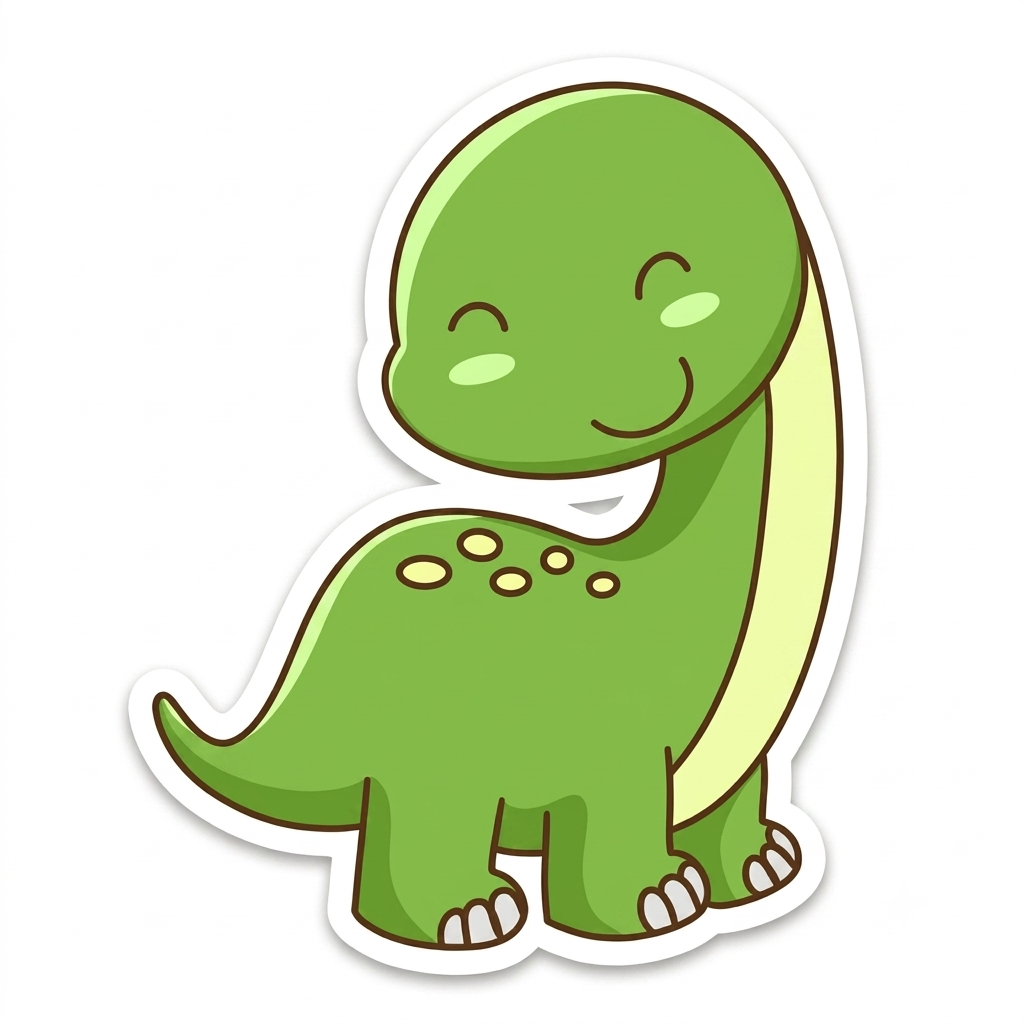
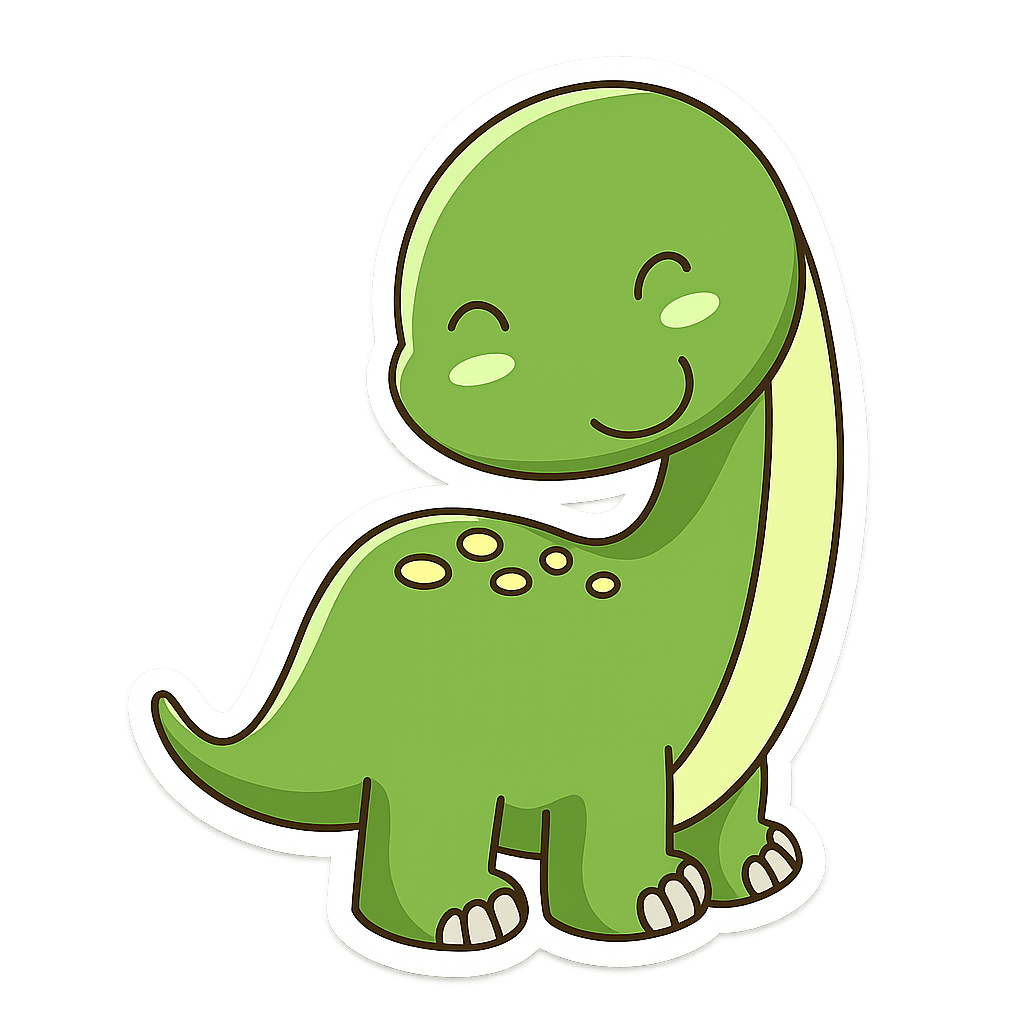
atividades crud

diff --git a/09 Crud/script.js b/09 Crud/script.js
@@ -6,19 +6,19 @@
 
 //D >> Delete >> Apagar
 
-
 let dinos = []
 
-function limpar_input(){
+function limpar_input() {
     document.getElementById("input_nome").value = ""
     document.getElementById("input_altura").value = ""
     document.getElementById("input_cor").value = ""
     document.getElementById("input_custo").value = ""
+    document.getElementById("input_id").value = ""
 
     document.getElementById("input_nome").focus()
 }
 
-function cadastrar_dino(){
+function cadastrar_dino() {
     const novo_dino = {
         id: Date.now(),
         nome: document.getElementById("input_nome").value,
@@ -33,19 +33,115 @@ function cadastrar_dino(){
 
     limpar_input()
 
+    mostrar_todos()
+
 }
 
-function mostrar_todos(){
-    for(let i = 0; i < dinos.length; i++){
-        document.getElementById("div-resposta").innerHTML += "ID: " + dinos[i].id + "<br>"
-        document.getElementById("div-resposta").innerHTML += "Nome: " + dinos[i].nome + "<br>"
-        document.getElementById("div-resposta").innerHTML += "Altura: " + dinos[i].altura + "<br>"
-        document.getElementById("div-resposta").innerHTML += "Cor: " + dinos[i].cor + "<br>"
-        document.getElementById("div-resposta").innerHTML += "Custo: " + dinos[i].custo + "<br>"
-        document.getElementById("div-resposta").innerHTML += "========================== <br>"
+function mostrar_todos() {
+    document.getElementById("div-resposta").innerHTML = ""
+    for (let i = 0; i < dinos.length; i++) {
+        // document.getElementById("div-resposta").innerHTML += "ID: " + dinos[i].id + "<br>"
+        // document.getElementById("div-resposta").innerHTML += "Nome: " + dinos[i].nome + "<br>"
+        // document.getElementById("div-resposta").innerHTML += "Altura: " + dinos[i].altura + "<br>"
+        // document.getElementById("div-resposta").innerHTML += "Cor: " + dinos[i].cor + "<br>"
+        // document.getElementById("div-resposta").innerHTML += "Custo: " + dinos[i].custo + "<br>"
+        // document.getElementById("div-resposta").innerHTML += "========================== <br>"
+
+        document.getElementById("div-resposta").innerHTML +=
+            `<div class="layout_dinos">
+                <h2>Nome: ${dinos[i].nome}<h2>
+                <p>ID: ${dinos[i].id}
+                <p>Altura: ${dinos[i].altura}<p>
+                <p>Cor: ${dinos[i].cor}<p>
+                <p>Custo: ${dinos[i].custo}<p>
+                </div>`
     }
 }
 
 function testar() {
-    
+    dinos = [
+        {
+            id: 1718324500001,
+            nome: "Tiranossauro Rex",
+            altura: 6.1,
+            cor: "#8B4513", // Marrom
+            custo: 150000
+        },
+        {
+            id: 1718324500002,
+            nome: "Velociraptor",
+            altura: 2.0,
+            cor: "#2E8B57", // Verde escuro
+            custo: 85000
+        },
+        {
+            id: 1718324500003,
+            nome: "Tricerátops",
+            altura: 3.0,
+            cor: "#708090", // Cinza
+            custo: 120000
+        },
+        {
+            id: 1718324500004,
+            nome: "Braquiossauro",
+            altura: 13.0,
+            cor: "#556B2F", // Verde oliva
+            custo: 250000
+        },
+        {
+            id: 1718324500005,
+            nome: "Pterodáctilo",
+            altura: 1.5,
+            cor: "#4682B4", // Azul aço
+            custo: 95000
+        }
+    ]
+}
+
+function pesquisar() {
+    let nome_procurado = document.getElementById("input_nome").value
+
+    for (let i = 0; i < dinos.length; i++) {
+        if (nome_procurado === dinos[i].nome) {
+            document.getElementById("input_altura").value = dinos[i].altura
+            document.getElementById("input_cor").value = dinos[i].cor
+            document.getElementById("input_custo").value = dinos[i].custo
+            document.getElementById("input_id").value = dinos[i].id
+
+            console.log(i)
+        }
+    }
+
+}
+
+function salvar_dino(){
+    let id = Number(document.getElementById("input_id").value)
+
+    for (let i = 0; i < dinos.length; i++) {
+        if (id === dinos[i].id) {
+            dinos[i].altura = document.getElementById("input_altura").value
+            dinos[i].cor = document.getElementById("input_cor").value
+            dinos[i].custo = document.getElementById("input_custo").value
+            dinos[i].id = document.getElementById("input_id").value
+
+            console.log(i)
+        }
+    }
+
+    mostrar_todos()
+
+}
+
+function apagar_dino(){
+    let id = Number(document.getElementById("input_id").value)
+
+    for (let i = 0; i < dinos.length; i++) {
+        if (id === dinos[i].id) {
+            dinos.splice(i, 1)
+
+            console.log(i)
+        }
+    }
+
+    mostrar_todos()
 }

diff --git a/09 Crud/style.css b/09 Crud/style.css
@@ -4,11 +4,50 @@
     box-sizing: border-box;
 }
 
+:root {
+  /* --- Cores Principais (Brand) --- */
+  --color-primary: #415a42;       /* Verde Camuflagem/Selva - tom fechado e fosco */
+  --color-primary-hover: #314432; /* Verde Militar Escuro */
+  --color-secondary: #e29578;     /* Terracota/Argila Queimada - para botões e destaques */
+  --color-secondary-hover: #dd7e5c;
+
+  /* --- Cores de Fundo (Backgrounds) --- */
+  --bg-main: #1c1d17;             /* Pedra Vulcânica - um cinza quase preto, mas com fundo levemente esverdeado/quente */
+  --bg-card: #282a22;             /* Ardósia Escura - para os cards se destacarem sutilmente sobre o fundo principal */
+  --bg-dark: #12130f;             /* Carbono Puro - para o header e o footer */
+
+  /* --- Cores de Texto --- */
+  --text-main: #e6dfd3;           /* Areia Iluminada - substitui o branco; um tom claro, porém fosco e confortável */
+  --text-muted: #a39e93;          /* Poeira/Cinza Quente - para descrições e textos de menor importância */
+  --text-light: #1c1d17;          /* Texto Escuro - para ser usado especificamente dentro de botões claros */
+
+  /* --- Cores de Suporte / Feedback --- */
+  --color-border: #383b30;        /* Linha de Solo - borda escura e sutil para separar os elementos */
+  --color-accent: #d4a373;        /* Ouro Velho / Âmbar Lapidado - para selos de raridade ou preços */
+}
+
 body{
-    background-color: rgb(46, 61, 16);
+    display: flex;
+    flex-direction: column;
+    align-items: center;
+    justify-content: center;
+    background-color: var(--bg-main);
+}
+
+button{
+    background-color: var(--color-primary);
+    padding: 8px;
+    border-radius: 10px;
+    border: none;
+
+}
+
+p, label{
+    color: var(--text-muted);
 }
 
 button:hover{
+    background-color: var(--color-primary-hover);
     cursor: pointer;
     scale: 1.08;
 }
@@ -21,15 +60,29 @@ header{
     display: flex;
     flex-direction: column;
     align-items: center;
-    background-color: rgb(79, 189, 57);
+    width: 100%;
+    padding: 10px;
+    background-color: var(--bg-dark);
+
+}
+
+#h1_crud{
+    color: var(--text-main);
 }
 
 #form{
     display: flex;
     flex-direction: column;
-    align-items: flex-start;
+    align-items: center;
+    justify-content: center;
     margin-top: 70px;
     gap: 20px;
+    background-color: var(--bg-card);
+    width: 30%;
+    margin-bottom: 20px;
+    padding: 20px;
+    border-radius: 20px;
+    box-shadow: 0 0 10px #000000;
 }
 
 .container_inputs label{
@@ -41,12 +94,33 @@ header{
     width: 80px;
 }
 
-#div-resposta{
-    color: aliceblue;
+#botao_cadastrar_dino{
+    background: none;
+    border: none;
 }
 
 #botao_teste{
     display: flex;
     flex-direction: column;
     align-items: flex-end;
+}
+
+#div-resposta{
+    display: flex;
+    justify-content: center;
+    align-items: center;
+    gap: 20px;
+    margin-left: 10px;
+    margin-top: 10px;
+    color: aliceblue;
+    flex-wrap: wrap;
+}
+
+.layout_dinos{
+    background-color: var(--bg-card);
+    width: 350px;
+    border-radius: 20px;
+    padding: 30px;
+    box-shadow: 0 0 10px #000000;
+
 }

diff --git a/09 Crud/index.html b/09 Crud/index.html
@@ -8,7 +8,7 @@
 </head>
 <body>
     <header>
-        <h1>CRUD</h1>
+        <h1 id="h1_crud">CRUD</h1>
     </header>
 
     <div id="form">
@@ -32,20 +32,27 @@
             <input id="input_custo" type="text">
         </div>
 
-        <button onclick="cadastrar_dino()"><img src="foto-dino.png" alt="" id="foto_botao_dino"></button>
-
-        <button onclick="mostrar_todos()">Mostrar Todos os Dinos</button>
-        <button onclick="testar()">Teste</button>
-
-        <div id="div-resposta">
-
+        <div class="container_inputs">
+            <label for="">ID:</label>
+            <input id="input_id" type="text">
         </div>
 
+            <button onclick="cadastrar_dino()" id="botao_cadastrar_dino"><img src="foto-dino.png" alt="" id="foto_botao_dino"></button>
+                        
+        </div>
+
+        <div>
+            <button onclick="mostrar_todos()">Mostrar Todos os Dinos</button>
+            <button onclick="testar()">Teste</button>
+            <button onclick="pesquisar()">Pesquisar</button>
+            <button onclick="salvar_dino()">Salvar Dino</button>
+            <button onclick="apagar_dino()">Apagar Dino</button>
+        </div>
+    
+    <div id="div-resposta">
+        
     </div>
-
-    <hr>
-
-
+    
     <script src="script.js"></script>
 </body>
 </html>
